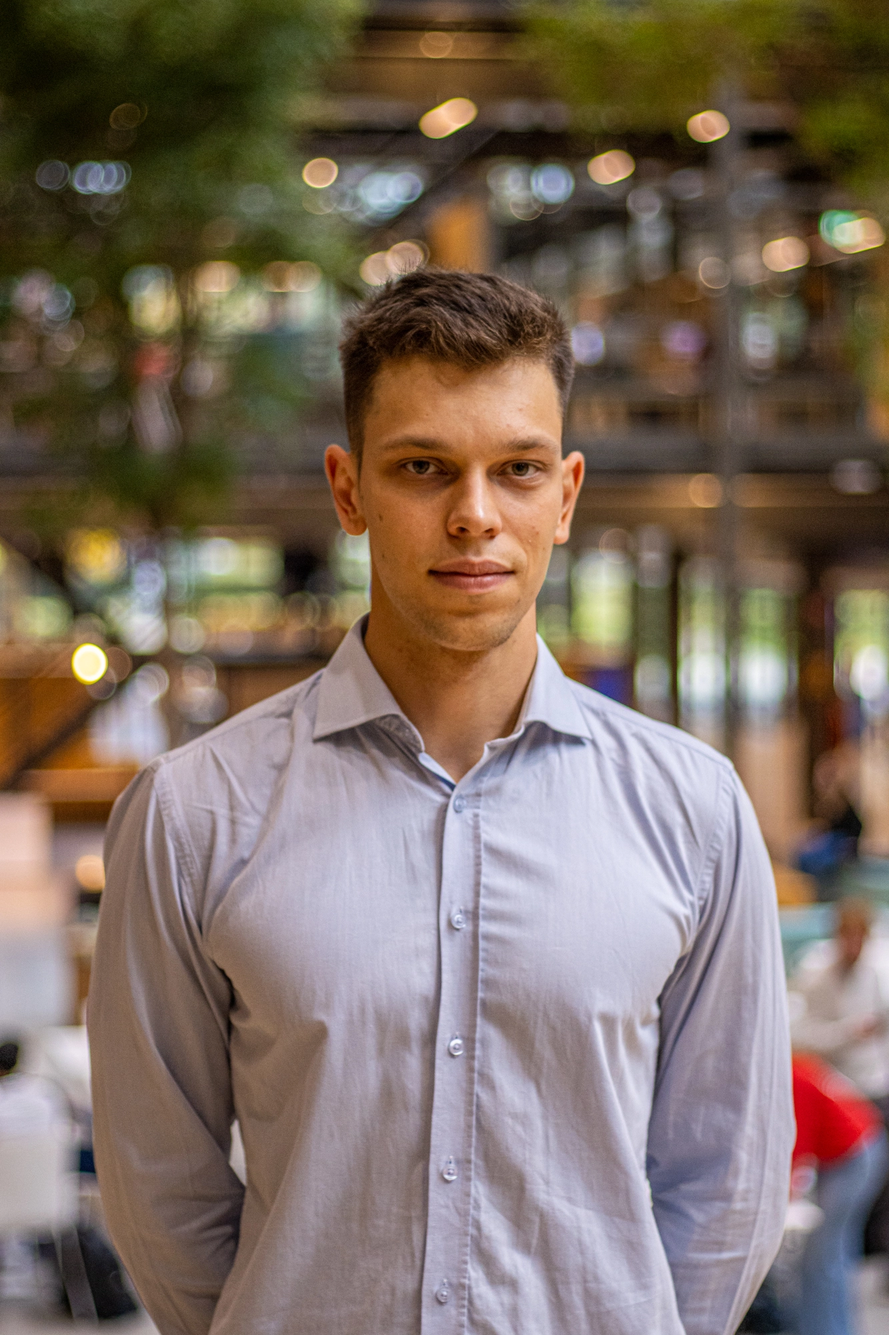
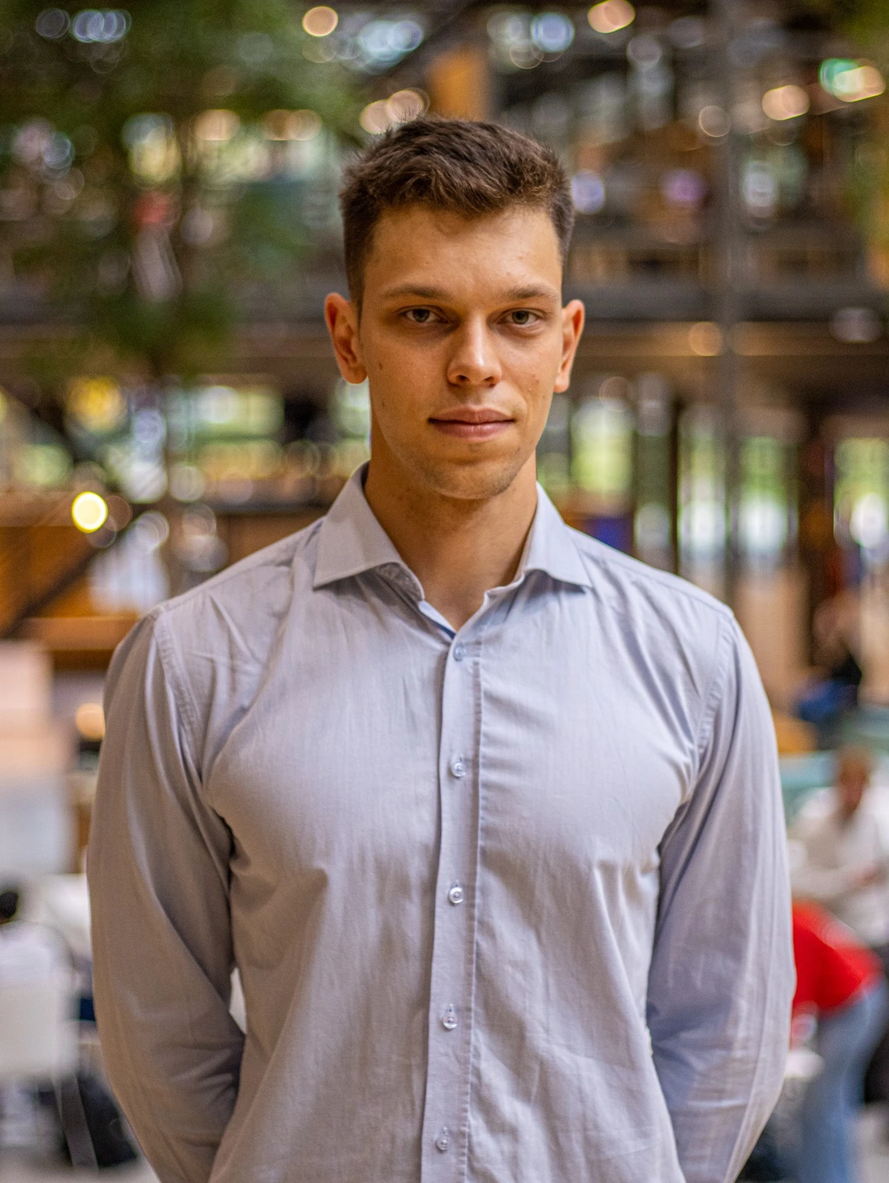
Update Krzysztof's contributor page. Replace a photo for the better fit on the website

diff --git a/content/contributors/krzysztofwiesniakowski.md b/content/contributors/krzysztofwiesniakowski.md
@@ -1,11 +1,12 @@
 ---
 name: "Krzysztof Wiesniakowski"
-description_short: "I am a computer science enthousiast who wants to his skills to contribute to open science."
-description_long: "I started my journey in computer science in Enschede 2020. Quickly I became passionate about computer science. I have one-year experience in web development as well as I did one data science project. Currently, I am pursuing Master in data science at Jheronimus Academy of Data Science. I believe in science and therefore, I would like to use my knowledge and expertise to contribute to open science."
+description_short: "I am a computer science enthousiast who wants to use his skills to contribute to open science."
+description_long: "I began my journey in computer science in Enschede in 2020, and quickly developed a passion for it. I have one year of experience in web development, and I have completed one data science project. Currently, I am pursuing Master in data science at Jheronimus Academy of Data Science. I really like the idea of open science where I could contribute to developing and sharing transparent and accessible knowledge. Moreover, from my experience, I know how important it is to invest time and effort in learning new skills and tools before actually contributing to the projects. Tilburg Science Hub is a great place where you can equip yourself in necessary skills to perform research efficiently."
 skills: 
   - Python 
   - R
   - Web Development
+  - Data Science
 social:
   - name: LinkedIn
     link: "https://www.linkedin.com/in/krzysztof-wiesniakowski-18260b181/"
